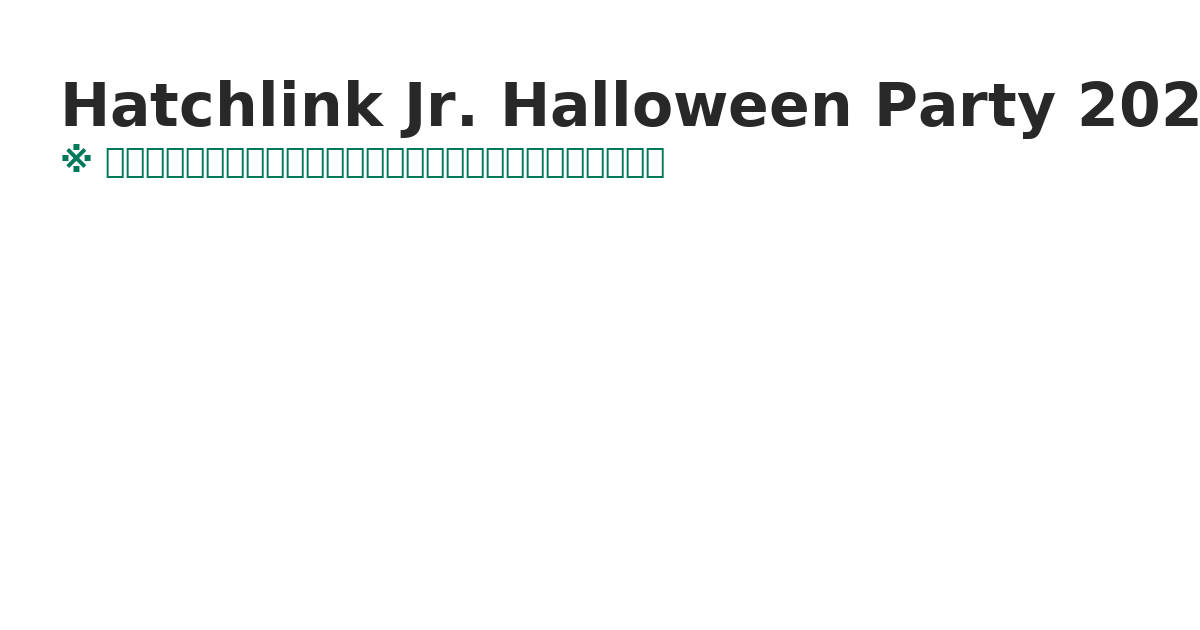
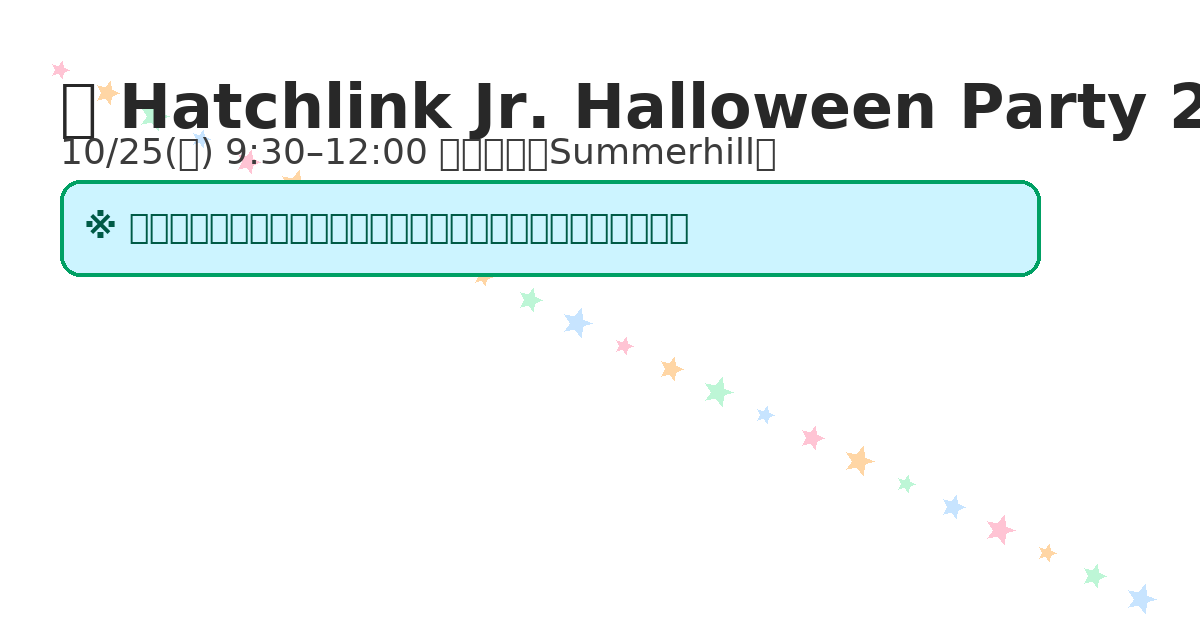
Add files via upload

diff --git a/index.html b/index.html
@@ -1,8 +1,87 @@
-<!doctype html><meta charset="utf-8">
-<title>v5 minimal update</title>
-<p>このパッケージは、ギャラリー先頭写真と吹き出し文言を更新するための差分です。</p>
-<ul>
-<li>置換: images/kids_pumpkins2.jpg</li>
-<li>置換: images/ogp.png</li>
-<li>index.html の吹き出しテキストを「ハッチリンクの有料会員でない方もどなたでも参加可能です！」に変更</li>
-</ul>
+<!doctype html>
+<html lang="ja"><head><meta charset="utf-8" />
+<meta name="viewport" content="width=device-width, initial-scale=1" />
+<title>Hatchlink Jr. Halloween Party 2025｜申込受付中</title>
+<meta name="description" content="未就学児〜小学生対象。英語初心者OK＆どなたでも参加可能！Halloween Words、クラフト、Trick or Treat（おもちゃ配布）、コスチューム・ファッションショー。" />
+<meta property="og:image" content="images/ogp.png" />
+<script src="https://cdn.tailwindcss.com"></script>
+<link href="https://fonts.googleapis.com/css2?family=Baloo+2:wght@600;700&family=Nunito:wght@400;600;800&display=swap" rel="stylesheet">
+<style>
+:root{ --mint:#cdefe1; --pink:#ffe3ee; --orange:#ffe6cc; --text:#263238; --brand1:#00c4ff; --brand2:#00a060; }
+body{ color:var(--text); background:#fff; font-family:'Nunito',system-ui,-apple-system,sans-serif; }
+.pastel-bg{
+  background-image:
+    radial-gradient(40px 40px at 15% 12%, var(--pink), transparent 60%),
+    radial-gradient(40px 40px at 80% 18%, var(--mint), transparent 60%),
+    radial-gradient(40px 40px at 30% 85%, var(--orange), transparent 60%);
+}
+.btn-primary{ background:linear-gradient(90deg,var(--brand1),var(--brand2)); color:#003; }
+.btn-accent{ background:#ffea80; color:#253b2f; }
+.rounded-3xl{ border-radius:1.25rem; }
+</style></head>
+<body class="pastel-bg">
+<header class="sticky top-0 z-50 bg-white/80 backdrop-blur border-b border-black/5">
+  <div class="mx-auto max-w-7xl px-4 py-3 flex items-center justify-between">
+    <div class="flex items-center gap-3"><img src="images/hatchlinkjr_logo.png" class="h-10 w-auto" alt="Hatchlink Jr." /></div>
+    <nav class="hidden md:flex gap-6 text-sm text-slate-700">
+      <a href="#about">概要</a><a href="#schedule">タイムテーブル</a><a href="#gallery">昨年の様子</a><a href="#venue">会場</a><a href="#faq">FAQ</a>
+    </nav>
+    <a href="#register" class="rounded-full px-4 py-2 btn-primary font-extrabold">申し込む</a>
+  </div>
+</header>
+<section class="relative"><div class="mx-auto max-w-7xl px-4 py-14 md:py-16 grid md:grid-cols-2 gap-8 items-center">
+  <div><h1 class="text-4xl md:text-6xl font-extrabold" style="font-family:'Baloo 2', cursive;">🎃 Hatchlink Jr. Halloween Party 2025 🍭</h1>
+  <p class="mt-3 text-lg">10/25(土) 9:30–12:00 ＠ 元麻布（Summerhill）</p>
+  <p class="mt-2">会場はSummerhill International School。<span class="font-extrabold">インターナショナルスクール体験</span>も味わえます！</p>
+  <p class="mt-2">対象：<strong>未就学児〜小学生</strong>（英語初心者OK）</p></div>
+  <div class="rounded-3xl overflow-hidden border border-black/10 bg-white"><img src="images/room1.jpg" class="w-full h-full object-cover" /></div>
+</div>
+<div class="mt-2 mx-auto max-w-3xl px-4 pb-6">
+  <div class="rounded-3xl border-2 border-emerald-500 shadow-md px-5 py-4 bg-[#CCF4FF] text-center text-lg md:text-xl font-extrabold text-emerald-800">
+  ※ ハッチリンクの有料会員でない方もどなたでも<strong>参加可能</strong>です！</div>
+</div></section>
+<section id="about" class="mx-auto max-w-7xl px-4 pb-10"><div class="grid md:grid-cols-2 gap-10 items-start">
+<div class="space-y-4"><h2 class="text-3xl font-extrabold">イベント概要</h2>
+<ul class="space-y-2"><li>・開催日時：2025年10月25日（土）9:30〜12:00</li><li>・会場：Summerhill International School（Aoba-Japan International School）</li><li>・住所：東京都港区元麻布2丁目13−8</li><li>・対象：未就学児〜小学生（英語レベル不問）</li><li>・定員：先着30名（要・申込）</li></ul></div>
+<div class="rounded-3xl p-5 bg-white/90 border border-black/10"><h3 class="font-bold">主なアクティビティ</h3>
+<div class="mt-4 grid grid-cols-2 gap-4 text-sm">
+  <div class="rounded-2xl p-4 bg-white border border-black/10"><p class="text-lg">📚 Halloween Words</p><p class="text-slate-600 mt-1">語彙を楽しく学ぼう</p></div>
+  <div class="rounded-2xl p-4 bg-white border border-black/10"><p class="text-lg">✂ クラフト</p><p class="text-slate-600 mt-1">創造性を育む工作</p></div>
+  <div class="rounded-2xl p-4 bg-white border border-black/10"><p class="text-lg">🧸 Trick or Treat</p><p class="text-slate-600 mt-1">合言葉で<strong>おもちゃ</strong>をゲット！（アレルギーに配慮）</p></div>
+  <div class="rounded-2xl p-4 bg-white border border-black/10"><p class="text-lg">👗 ファッションショー</p><p class="text-slate-600 mt-1">自慢のコスチュームで舞台へ</p></div>
+</div><p class="mt-3 text-xs text-slate-500">＊内容は変更となる場合があります。</p></div></div></section>
+<section id="schedule" class="border-y border-black/5 bg-white/60"><div class="mx-auto max-w-7xl px-4 py-12"><h2 class="text-3xl font-extrabold">タイムテーブル</h2>
+<div class="mt-6 grid md:grid-cols-3 gap-6">
+  <div class="rounded-2xl p-5 bg-white border border-black/10"><p class="text-sm text-slate-600">9:30</p><p class="font-bold">オープニング & Halloween Words</p></div>
+  <div class="rounded-2xl p-5 bg-white border border-black/10"><p class="text-sm text-slate-600">10:15</p><p class="font-bold">クラフト & Trick or Treat</p></div>
+  <div class="rounded-2xl p-5 bg-white border border-black/10"><p class="text-sm text-slate-600">11:30</p><p class="font-bold">ファッションショー</p><p class="text-sm text-slate-600 mt-1">表彰／クロージング 12:00</p></div>
+</div></div></section>
+<section id="gallery" class="px-4 py-12 mx-auto max-w-7xl"><h2 class="text-3xl font-extrabold">昨年の様子</h2>
+<div class="mt-6 grid grid-cols-2 md:grid-cols-4 gap-4">
+  <img src="images/room1.jpg" class="rounded-2xl border border-black/10 object-cover w-full h-40" />
+  <img src="images/candy.jpg" class="rounded-2xl border border-black/10 object-cover w-full h-40" />
+  <img src="images/circle.jpg" class="rounded-2xl border border-black/10 object-cover w-full h-40" />
+  <img src="images/fashion1.jpg" class="rounded-2xl border border-black/10 object-cover w-full h-40" />
+  <img src="images/fashion2.jpg" class="rounded-2xl border border-black/10 object-cover w-full h-40" />
+  <img src="images/fashion3.jpg" class="rounded-2xl border border-black/10 object-cover w-full h-40" />
+  <img src="images/fashion4.jpg" class="rounded-2xl border border-black/10 object-cover w-full h-40" />
+</div></section>
+<section id="register" class="mx-auto max-w-7xl px-4 py-12"><div class="grid md:grid-cols-2 gap-10 items-start">
+<div><h2 class="text-3xl font-extrabold">お申し込み（先着30名）</h2>
+<p class="mt-3">申込フォーム送信後、事務局からメールでご案内をお送りします。お支払いはPayPal経由のクレジットカード決済に対応しています。</p>
+<div class="mt-4 overflow-hidden rounded-2xl border border-black/10 bg-white"><table class="w-full text-sm"><thead class="bg-slate-50"><tr><th class="text-left p-3">区分</th><th class="text-left p-3">参加費（税込）</th></tr></thead><tbody><tr class="border-t"><td class="p-3">有料会員さま*2</td><td class="p-3 font-semibold">5,400円 / 名</td></tr><tr class="border-t"><td class="p-3">無料会員さま*1</td><td class="p-3 font-semibold">7,200円 / 名</td></tr></tbody></table></div>
+<ul class="mt-3 text-xs text-slate-600 space-y-1"><li>*1：申込時点で有料コース未申込（休会中を含む）のお客さま。</li><li>*2：申込時点で有料コースにお申込み中のお客さま。</li><li>お支払い期限：請求書発行日から1週間／キャンセル：決済後100％</li></ul>
+<a href="https://docs.google.com/forms/d/e/1FAIpQLSc04sBH5gyd1LDz5-Vf_5mTWtfbJml49vXOq0wP-eHfiPYaDA/viewform" target="_blank" class="inline-block mt-6 rounded-full px-6 py-3 btn-primary font-extrabold">申し込みフォームを開く</a>
+<p class="mt-2 text-xs">申込締切：<strong>2025年10月21日（火）</strong>／ 定員になり次第締切</p></div>
+<div class="rounded-3xl p-6 bg-white/90 border border-black/10"><h3 class="font-bold">当日のご案内</h3>
+<ul class="mt-3 space-y-2 text-sm"><li>・受付でお名前をお伝えください（保護者の見学可）。</li><li>・持参物は締切後にメールでご案内します。</li><li>・イベントは英語で進行しますが、日本語サポートあり。</li></ul>
+<details class="mt-4 rounded-xl bg-slate-50 p-3 border border-black/10"><summary class="cursor-pointer font-semibold">キャンセルはできますか？</summary><p class="mt-2 text-sm">決済後のキャンセルは100％ご負担いただきます。生徒様のご都合による決済後のキャンセルや欠席につきましては、返金は致しかねますので、ご了承ください。</p></details></div></div></section>
+<section id="venue" class="border-y border-black/5 bg-white/60"><div class="mx-auto max-w-7xl px-4 py-12"><h2 class="text-3xl font-extrabold">会場アクセス</h2>
+<div class="mt-6 grid md:grid-cols-2 gap-8 items-start"><div class="rounded-3xl p-6 bg-white border border-black/10"><p class="font-bold">Summerhill International School</p><p class="text-sm mt-1">東京都港区元麻布2丁目13−8</p><a href="https://maps.app.goo.gl/fU6nV61ogNDmkYXw8" target="_blank" class="inline-block mt-4 rounded-full px-4 py-2 btn-accent font-extrabold">Googleマップで開く</a></div>
+<div class="rounded-3xl overflow-hidden border border-black/10"><img src="images/circle.jpg" class="w-full h-full object-cover" /></div></div></div></section>
+<footer class="border-t border-black/5 bg-white/80"><div class="mx-auto max-w-7xl px-4 py-8 grid md:grid-cols-3 gap-6 text-sm">
+<div><p class="font-bold">主催</p><p class="mt-1">株式会社Aoba-BBT Global（ハッチリンク事務局）</p></div>
+<div><p class="font-bold">お問い合わせ</p><p class="mt-1">メール：<a class="underline" href="mailto:support@hatchlinkjr.com">support@hatchlinkjr.com</a></p></div>
+<div><p class="font-bold">備考</p><p class="mt-1">写真・動画は当社サイト等で掲載する場合があります。</p></div></div>
+<div class="text-center text-xs text-slate-500 py-6">© 2025 Hatchlink Jr.</div></footer>
+</body></html>

diff --git a/README.md b/README.md
@@ -1,9 +1,4 @@
-# Hatchlink Jr. Halloween Party 2025
+# Hatchlink Jr. Halloween Party 2025（v7）
 
-このサイトはGitHub Pagesで公開するための1ページ構成サイトです。
-
-## 公開方法
-1. GitHubで新しいリポジトリを作成
-2. `index.html` と `images` フォルダをアップロード
-3. Settings > Pages > Branch: main / Folder: /(root) を設定
-4. `https://ユーザー名.github.io/リポジトリ名/` で確認
+- 画像は昨年の写真のみ同梱（ご指定の写真は除外）
+- GitHub Pages への公開手順は、Add file → Upload files で `index.html` と `images/` と `README.md` をアップロード
